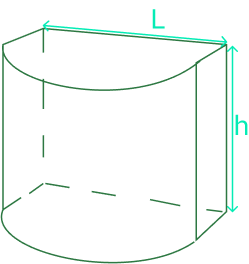
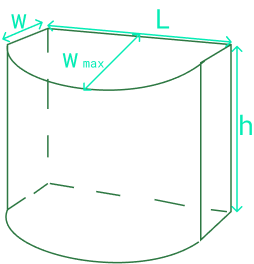
Create Input Component

diff --git a/SRC/Screens/AquariumCalculate.js b/SRC/Screens/AquariumCalculate.js
@@ -1,14 +1,16 @@
 import React, {useLayoutEffect, useState} from 'react';
-import {StyleSheet, View, Text} from 'react-native';
+import {StyleSheet, View, Text, Keyboard, Pressable} from 'react-native';
+import {TextInput} from 'react-native-gesture-handler';
 import {COLORS} from '../Colors/COLORS';
 import UnitSwitch from '../Components/UnitSwitch';
 import GeometricImg from './GeometericImg';
 
 const AquariumCalculate = ({route, navigation}) => {
+  const [functionDimensions, setFunctionDimensions] = useState({});
   const [unitMetric, setUnitMetric] = useState('cm');
   const [unitImperial, setUnitImperial] = useState('inch');
   const [isImperial, setIsImperial] = useState(false);
-  const {aquariumShape, formulaImgSource} = route.params;
+  const {aquariumShape, formulaImgSource, dimensions} = route.params;
 
   const activeUnit = isImperial ? unitImperial : unitMetric;
   useLayoutEffect(() => {
@@ -17,9 +19,8 @@ const AquariumCalculate = ({route, navigation}) => {
     });
   }, []);
 
-  console.log({formulaImgSource});
   return (
-    <View style={styles.body}>
+    <Pressable onPress={() => Keyboard.dismiss()} style={styles.body}>
       <UnitSwitch
         unitMetric={unitMetric}
         unitImperial={unitImperial}
@@ -31,13 +32,48 @@ const AquariumCalculate = ({route, navigation}) => {
       <View style={styles.img}>
         <GeometricImg formulaImgSource={formulaImgSource}></GeometricImg>
       </View>
-    </View>
+      {dimensions.map((dimension) => {
+        return (
+          <View
+            removeClippedSubviews={true}
+            style={styles.view}
+            key={dimension}>
+            <TextInput
+              accessible={false}
+              contextMenuHidden={true}
+              keyboardType="numeric"
+              onChangeText={(text) => {
+                setFunctionDimensions({
+                  ...functionDimensions,
+                  [dimension]: text,
+                });
+              }}
+              style={styles.input}
+              maxLength={10}
+            />
+            <Text style={styles.text}>{dimension}</Text>
+          </View>
+        );
+      })}
+    </Pressable>
   );
 };
 
 export default AquariumCalculate;
 
 const styles = StyleSheet.create({
+  input: {
+    backgroundColor: COLORS.primaryColor,
+    width: 338,
+    height: 38,
+    marginTop: 21,
+    borderRadius: 7,
+    fontSize: 26,
+    padding: 0,
+    textAlign: 'center',
+    color: COLORS.secondaryColor,
+    alignSelf: 'center',
+  },
   body: {
     backgroundColor: COLORS.colorBackground,
     flex: 1,
@@ -47,5 +83,16 @@ const styles = StyleSheet.create({
     backgroundColor: COLORS.colorBackground,
     height: 125,
     marginTop: 20,
+  },
+  view: {
+    width: '100%',
+  },
+  text: {
+    color: COLORS.secondaryColor,
+    fontSize: 26,
+    position: 'absolute',
+    marginTop: 20,
+    marginLeft: '65%',
+    textAlign: 'right',
   },
 });

diff --git a/SRC/Constants/GeometricBtn.js b/SRC/Constants/GeometricBtn.js
@@ -4,12 +4,14 @@ export const geometricBtn = [
       aquariumShape: 'Cube',
       imgSource: require('../Img/Menu/CubeSelected.png'),
       formulaImgSource: require('../Img/AQM/Cube.png'),
+      dimensions: ['L', 'W', 'h'],
     },
 
     {
       aquariumShape: 'Hexagon',
       imgSource: require('../Img/Menu/HexagonCubeSelected.png'),
       formulaImgSource: require('../Img/AQM/HexagonalCube.png'),
+      dimensions: ['P', 'h'],
     },
   ],
   [
@@ -17,11 +19,13 @@ export const geometricBtn = [
       aquariumShape: 'Pentagon',
       imgSource: require('../Img/Menu/PentagonalCubeSelected.png'),
       formulaImgSource: require('../Img/AQM/PentagonalCube.png'),
+      dimensions: ['L', 'a', 'h'],
     },
     {
       aquariumShape: 'Corner',
       imgSource: require('../Img/Menu/TrigonalCubeSelected.png'),
       formulaImgSource: require('../Img/AQM/CornerCube.png'),
+      dimensions: ['L', 'h'],
     },
   ],
   [
@@ -29,11 +33,13 @@ export const geometricBtn = [
       aquariumShape: 'Bow Front Cube',
       imgSource: require('../Img/Menu/BowFrontCubeSelected.png'),
       formulaImgSource: require('../Img/AQM/BowFrontCube.png'),
+      dimensions: ['L', 'W', 'Wm', 'h'],
     },
     {
       aquariumShape: 'Trigona',
       imgSource: require('../Img/Menu/TriganolCube2Selected.png'),
       formulaImgSource: require('../Img/AQM/TrigonaCube.png'),
+      dimensions: ['L', 'W', 'h'],
     },
   ],
   [
@@ -41,11 +47,13 @@ export const geometricBtn = [
       aquariumShape: 'Cylinder',
       imgSource: require('../Img/Menu/CylinderSelected.png'),
       formulaImgSource: require('../Img/AQM/Cylinder.png'),
+      dimensions: ['L', 'h'],
     },
     {
       aquariumShape: 'Half Cylinder',
       imgSource: require('../Img/Menu/HalfCylinderSelected.png'),
       formulaImgSource: require('../Img/AQM/HalfCylinder.png'),
+      dimensions: ['L', 'h'],
     },
   ],
 ];

diff --git a/SRC/Screens/AquariumLanding.js b/SRC/Screens/AquariumLanding.js
@@ -8,16 +8,18 @@ const AquariumLanding = ({navigation}) => {
   return (
     <View style={styles.body}>
       <View style={styles.btnTop}></View>
-      {geometricBtn.map((row) => (
-        <View style={styles.grpBtn}>
+      {geometricBtn.map((row, index) => (
+        <View style={styles.grpBtn} key={index}>
           {row.map((btn) => (
             <ImageBtn
+              key={btn.aquariumShape}
               navigation={navigation}
               onPress={() => {
                 navigation.navigate('AquariumCalculate', {
                   aquariumShape: btn.aquariumShape,
                   handleCalculate: btn.handleCalculate,
                   formulaImgSource: btn.formulaImgSource,
+                  dimensions: btn.dimensions,
                 });
               }}
               imgSource={btn.imgSource}

diff --git a/SRC/Screens/UnitBtn.js b/SRC/Screens/UnitBtn.js
@@ -38,6 +38,7 @@ const UnitBtn = ({isActive, units, selectedUnit, setSelectedUnit, title}) => {
           {units &&
             units.map((item) => (
               <Pressable
+                key={item.longUnit}
                 onPress={() => {
                   setSelectedUnit(item.shortUnit);
                   bottomSheetRef.current.close();

diff --git a/SRC/Screens/Converter.js b/SRC/Screens/Converter.js
@@ -144,7 +144,8 @@ const styles = StyleSheet.create({
     backgroundColor: COLORS.primaryColor,
     width: 130,
     height: 20,
-    fontSize: 50,
+    fontSize: 15,
+    padding: 0,
     color: '#FFFFFF',
   },
   arrow: {
